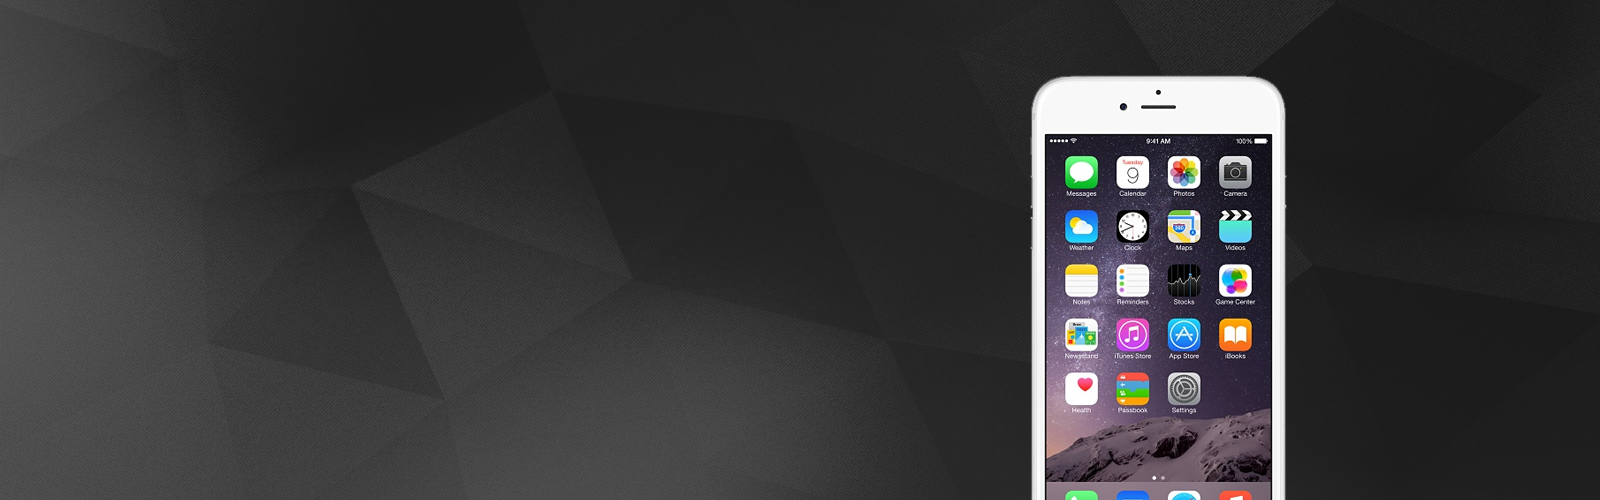
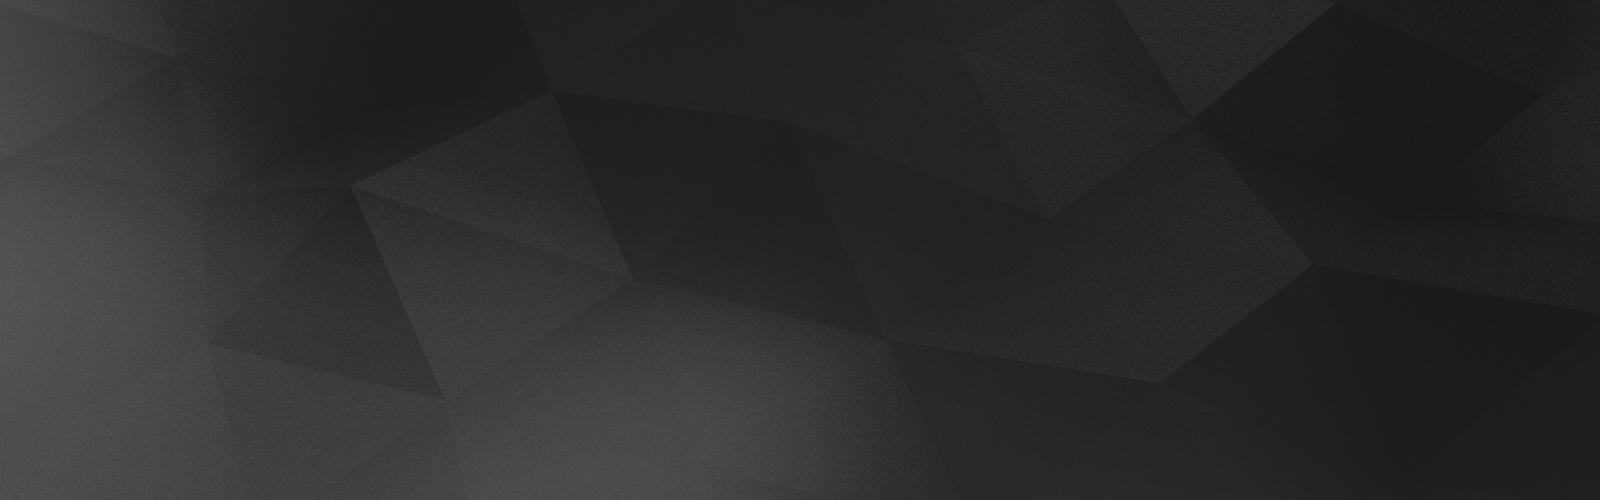
Изменен background в секции about на 2 разных картинки

Changed region(s): [[0.625, 0.15, 0.8125, 1.0]]

diff --git a/sass/blocks/about.scss b/sass/blocks/about.scss
@@ -18,10 +18,16 @@
   background-repeat: no-repeat;
   background-position: center top;
   background-size: cover;
-  padding: 170px 0 110px;
   margin: 85px 0 0;
   font-family: $lato;
   color: #ffffff;
+}
+
+.about__container .wrapper {
+  padding: 170px 0 110px;
+  background-image: url("../img/about-bg-phone.png");
+  background-repeat: no-repeat;
+  background-position: 95% 100%;
 }
 
 .about__container-title {
